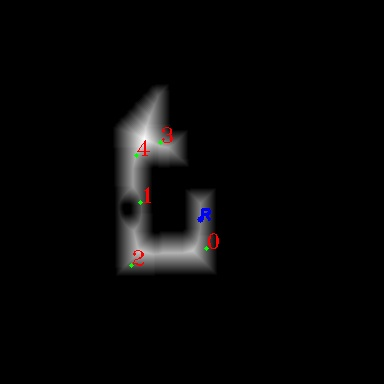
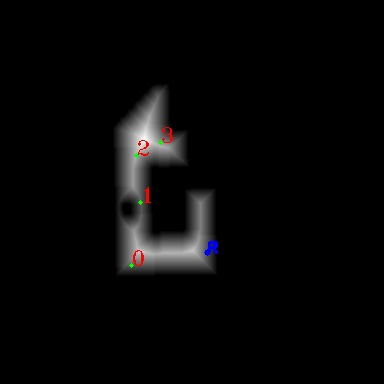
update

Changed region(s): [[0.5, 0.5312, 0.5938, 0.6875], [0.3438, 0.3438, 0.4062, 0.4062], [0.3438, 0.6562, 0.375, 0.7188]]

diff --git a/turtlebot3_67301/scripts/presentation.tex b/turtlebot3_67301/scripts/presentation.tex
@@ -100,7 +100,7 @@ We implemented our approach using image processing manipulations on the binary i
 
 \begin{frame}{Single-agent dirt collection}
 \bigskip 
-We evaluated our approach by  TODO!!!
+We evaluated the approach by visualizing path the robot takes #TODO!!!
 \end{frame}
 
 
@@ -131,7 +131,7 @@ We evaluated our approach by  TODO!!!
     PD formulation:
 
 \begin{align*} 
-&\omega(t)=K_{P} e(t)+K_{P} \frac{d e}{d t}\ \ s.t\\
+&\omega(t)=K_{P} e(t)+K_{P} \frac{d e}{d t}\ \ \ \ s.t\\
 &\omega(t)\text{ - PD output }\\
 &K_{P}\text{ - proportional gain }\\
 &de\text{ - change in error value }\\
@@ -191,6 +191,7 @@ We model the problem as two decision Trees, one for each agent, $T_{Agent_{i}} =
 \item Each edge $E_{Agent_{i}}=(v_{1},v_{2})$ cost is the Move-Base path length between $v_{1}$ and $v_{2}$.
 \item The utility of an agent is defined for path $p\in E^{\# dirts}$ as
 \item $$u(p) = \sum_{e \in p} cost(e) $$
+\item A path $p^{*}$ is optimal if $$u(p^{*}) = max_{\forall p}{u(p)} $$
 \end{itemize}
 \end{frame}
 
@@ -207,8 +208,51 @@ We implemented the approach by:
 \end{itemize}
 \end{frame}
 
+\section{Multi-agent inspection}
+\begin{frame}{Multi-agent inspection}
+\begin{itemize}
+    \item {\bf Problem description:} explore a room and count the number of statically positioned spheres using two agents subject to a time limit. 
+    \item That can be translated to: cover all the accessible areas using the agent sensors range and register the spheres positions within the given time frame.
+    \item The problem is hard because, like with the single agent,  exploring is a hard problem and detecting sphere using a low quality 2d bird view of the sensors reading is challenging but what complicates it even more is managing the two agents.
+    \item An exhaustive approach to the solution would be using both agents to perform BFS/DFS algorithm to map the room including the existing static objects like the spheres and cross validate correctness.
+\end{itemize}
+\end{frame}
 
-\section{Multi-agent dirt inspection}
+\begin{frame}{Multi-agent inspection}
+    Same as with single agent: We model the problem as a walk-by-wall using PD controller to keep a distance from the wall and gradually increase this reserved distance after each full circle and registering the spheres positioned along the way.
+    
+    PD formulation:
+
+\begin{align*} 
+&\omega(t)=K_{P} e(t)+K_{P} \frac{d e}{d t}\ \ \ \ s.t\\
+&\omega(t)\text{ - PD output }\\
+&K_{P}\text{ - proportional gain }\\
+&de\text{ - change in error value }\\
+&dt\text{ - change in time } 
+\end{align*}    
+
+\end{frame}
+
+\begin{frame}{Single-agent inspection}
+We implemented our approach using PD output for movement and the local cost map  for spheres count. For every relevant sensor reading:
+\graphicspath{{images/}}
+\begin{itemize}
+    \item Adjust linear velocity according to distance from front wall.
+    \item Adjust angular velocity according PD output.
+    \item Process local cost map image and detect circles using Hough transform.
+    \item For each detected circle center, register centers in a set to prevent counting twice.
+    \bigskip
+    
+    \begin{figure}[htp]
+    % \centering
+    \includegraphics[height=3cm,width=3cm]{gazibo.JPG}
+    \includegraphics[height=3cm,width=3cm]{sphere_img_0 (4).jpg}
+    \includegraphics[height=3cm,width=3cm]{sphere_img_1 (2).jpg}
+
+    \label{fig:galaxy}
+\end{figure}
+\end{itemize}
+\end{frame}
 
 \section{Conclusion}
 

diff --git a/turtlebot3_67301/scripts/assignment_2.py b/turtlebot3_67301/scripts/assignment_2.py
@@ -381,7 +381,7 @@ def competitive_cleaning(agent_id=0, path_based_dist=True):
             rival_sorted_dirts = sort_dirts(dirt_eta_map, agent_id=1-agent_id, annotate=False, by_path=True)
 
         agent_1_stronger = sum(closer_dirts_ind) > len(pub_dirt_list) // 2
-        # im_weak = True if agent_id == 0 and agent_1_stronger else False
+
         his = mine = []
         for ag_id, dirt_pos in zip(closer_dirts_ind, pub_dirt_list):
             if ag_id != agent_id:
@@ -428,7 +428,7 @@ def vacuum_cleaning(agent_id):
         time.sleep(0.1)
     dirt_list_cpy = [_ for _ in pub_dirt_list]
     try:
-        if agent_id: #.  TODO.  *********************************** $$$$$$$$$$$$$$$
+        if agent_id==0: #.  TODO.  *********************************** $$$$$$$$$$$$$$$
             basic_cleaning(pub_dirt_list, agent_id)
         else:
             competitive_cleaning(agent_id)
@@ -482,10 +482,6 @@ class Robot:
         self.kp = 4
         self.kd = 450
         self.ki = 0
-
-        # self.k1 = self.kp + self.ki + self.kd
-        # self.k2 = -self.kp - 2 * self.kd
-        # self.k3 = self.kp
 
         subcribe_location(agent_id, self.callback_odom)
         subcribe_laser(agent_id, self.callback_laser)
